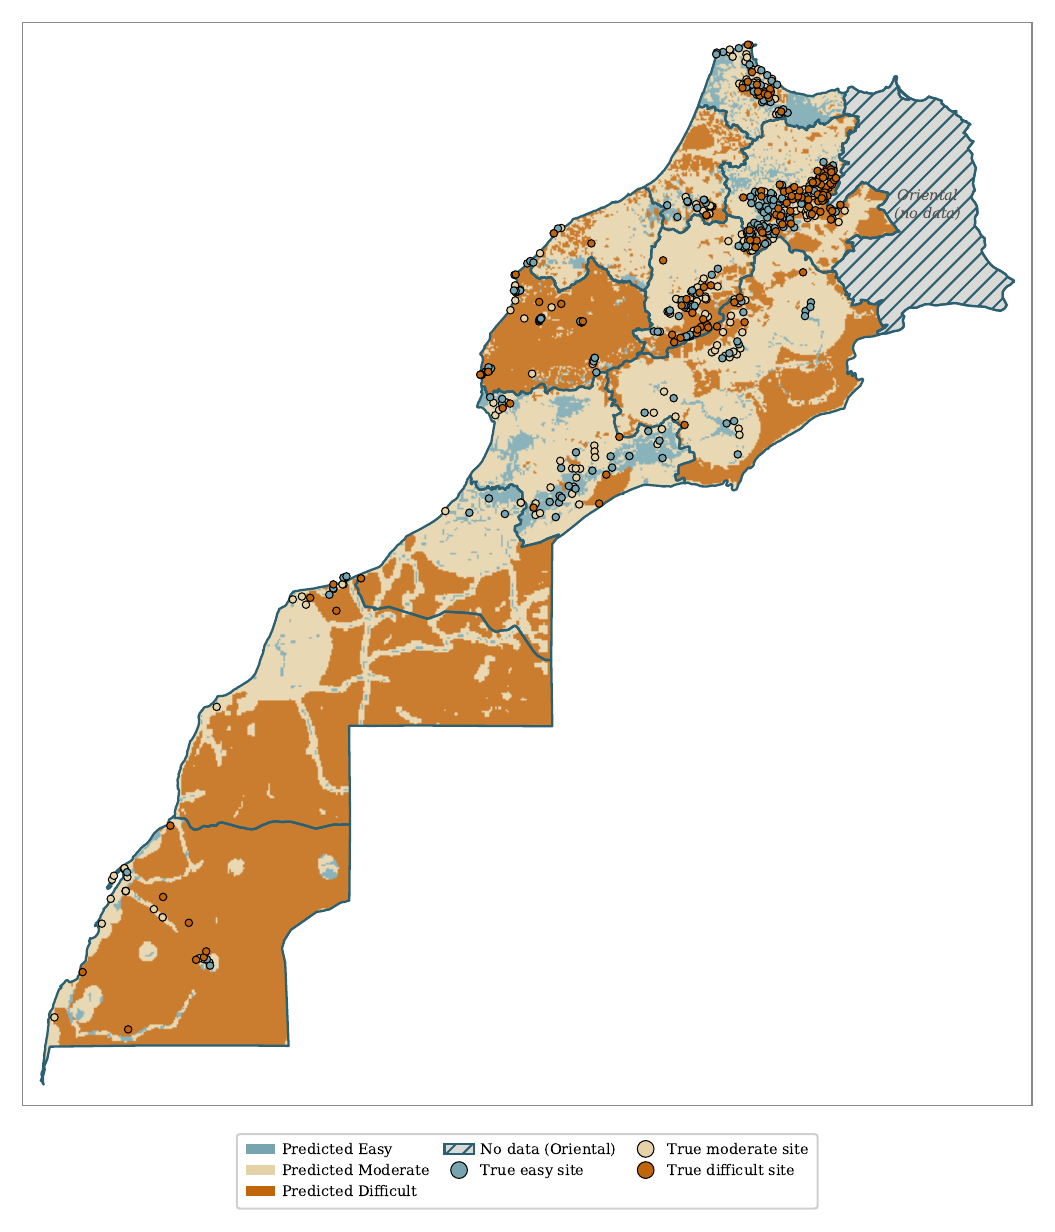
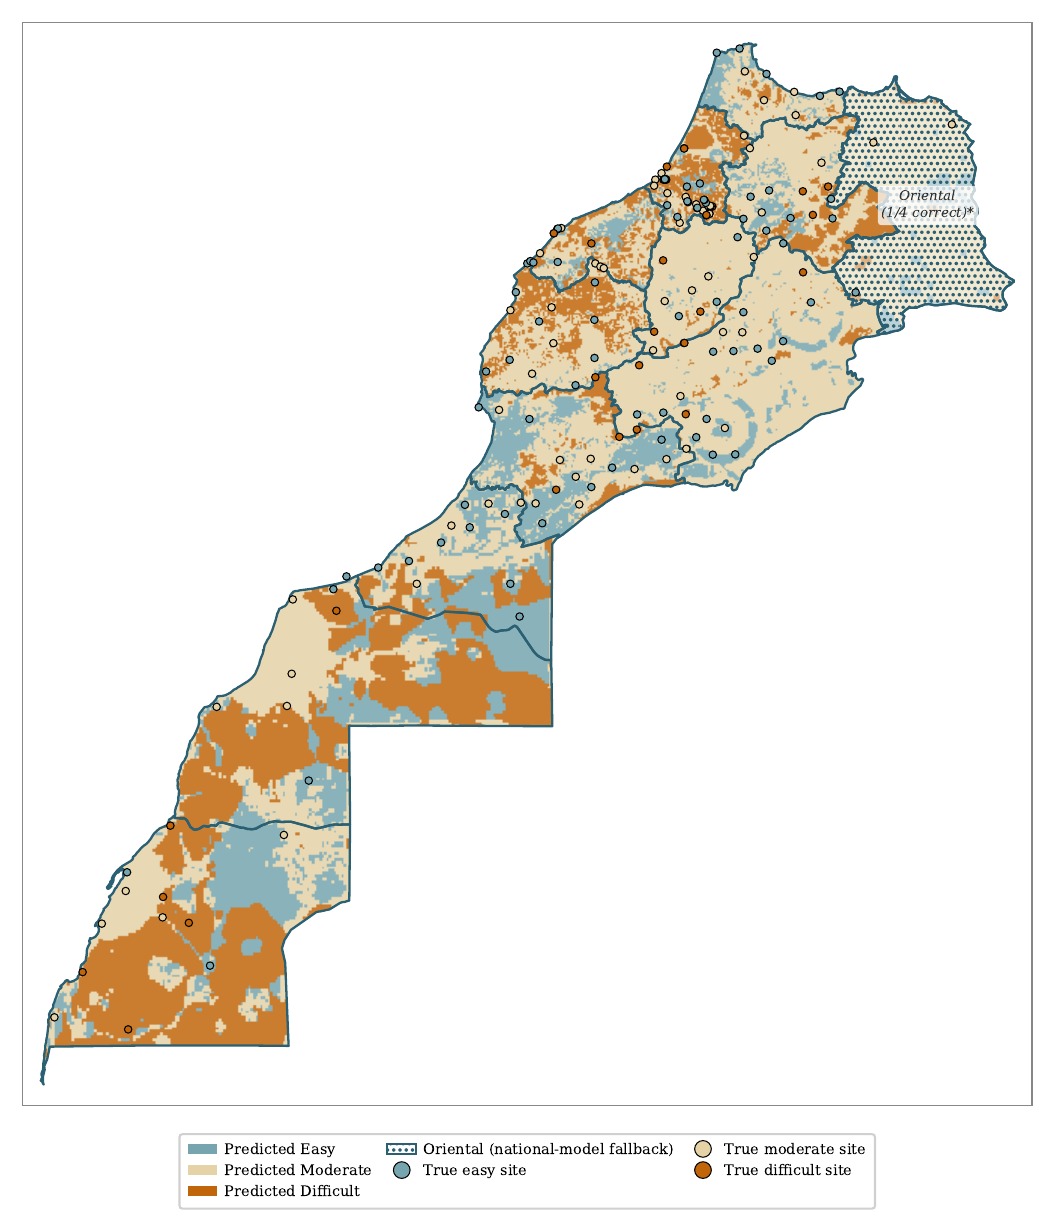
docs: rewrite root README for N=1,662, fix stale report-script path fixups
README: replaced every N=939/733-era number and claim with the current,
verified N=1,662 figures (deployed GP+Infra Difficult / tree+Infra Easy
models, updated headline table, twelve regions not eleven, pyosmium
extraction note, script count 03-33, presentation-is-stale disclosure).
Regenerated the three preview PNGs whose source PDFs changed since the
last refresh (national map now shows the deployed models; mosaic shows
the corrected South-zone trio decision and the Oriental fallback; gap
chart reflects current numbers).

Also commits seven 03_report_generation/*.py path fixups (FW/OUT resolve
one directory level too deep, left over from the report/scripts/ ->
03_report_generation/ rename) that were verified working but never
committed.

Changed region(s): [[0.0303, 0.0308, 0.9706, 0.8636], [0.1517, 0.9253, 0.819, 0.987]]

diff --git a/03_report_generation/make_morocco_regions_reference_map.py b/03_report_generation/make_morocco_regions_reference_map.py
@@ -16,8 +16,8 @@ matplotlib.use("pdf")
 import matplotlib.pyplot as plt
 
 HERE = os.path.dirname(os.path.abspath(__file__))
-FW = os.path.abspath(os.path.join(HERE, "..", ".."))
-OUT = os.path.join(HERE, "..", "figures")
+FW = os.path.abspath(os.path.join(HERE, ".."))
+OUT = os.path.join(HERE, "..", "report", "figures")
 
 # Native PDF backend, not PGF/LaTeX text -- the regions polygons have enough
 # vertices that PGF's path-as-LaTeX-commands compilation stalls for minutes.

diff --git a/03_report_generation/make_maps_render.py b/03_report_generation/make_maps_render.py
@@ -18,8 +18,8 @@ from matplotlib.patches import Patch, PathPatch
 from matplotlib.path import Path as MplPath
 
 HERE = os.path.dirname(os.path.abspath(__file__))
-FW = os.path.abspath(os.path.join(HERE, "..", ".."))
-OUT = os.path.join(HERE, "..", "figures")
+FW = os.path.abspath(os.path.join(HERE, ".."))
+OUT = os.path.join(HERE, "..", "report", "figures")
 
 plt.rcParams.update({
     "pgf.texsystem": "pdflatex",

diff --git a/03_report_generation/make_paper2_gap_charts.py b/03_report_generation/make_paper2_gap_charts.py
@@ -19,8 +19,8 @@ import matplotlib.pyplot as plt
 import numpy as np
 
 HERE = os.path.dirname(os.path.abspath(__file__))
-FW = os.path.abspath(os.path.join(HERE, "..", ".."))
-OUT = os.path.join(HERE, "..", "figures")
+FW = os.path.abspath(os.path.join(HERE, ".."))
+OUT = os.path.join(HERE, "..", "report", "figures")
 
 EASY_COL, DIFFICULT_COL, MAJ_COL, ACCENT = "#76A5AF", "#C1650A", "#555555", "#2B5F72"
 

diff --git a/03_report_generation/make_favorability_roc.py b/03_report_generation/make_favorability_roc.py
@@ -21,8 +21,8 @@ matplotlib.use("pgf")
 import matplotlib.pyplot as plt
 
 HERE = os.path.dirname(os.path.abspath(__file__))
-FW = os.path.abspath(os.path.join(HERE, "..", ".."))
-OUT = os.path.join(HERE, "..", "figures")
+FW = os.path.abspath(os.path.join(HERE, ".."))
+OUT = os.path.join(HERE, "..", "report", "figures")
 os.makedirs(OUT, exist_ok=True)
 
 plt.rcParams.update({

diff --git a/03_report_generation/make_figures.py b/03_report_generation/make_figures.py
@@ -16,7 +16,7 @@ import matplotlib.pyplot as plt
 
 HERE = os.path.dirname(os.path.abspath(__file__))
 RESULTS = os.path.join(HERE, "..", "..", "results", "json", "other")
-OUT = os.path.join(HERE, "..", "figures")
+OUT = os.path.join(HERE, "..", "report", "figures")
 os.makedirs(OUT, exist_ok=True)
 
 plt.rcParams.update({

diff --git a/03_report_generation/make_validation_schematic.py b/03_report_generation/make_validation_schematic.py
@@ -13,7 +13,7 @@ from matplotlib.patches import Circle, FancyArrowPatch
 from matplotlib.lines import Line2D
 
 HERE = os.path.dirname(os.path.abspath(__file__))
-OUT = os.path.join(HERE, "..", "figures")
+OUT = os.path.join(HERE, "..", "report", "figures")
 
 plt.rcParams.update({
     "pgf.texsystem": "pdflatex",

diff --git a/03_report_generation/make_favorability_v3.py b/03_report_generation/make_favorability_v3.py
@@ -40,7 +40,7 @@ from pyproj import Transformer
 import joblib
 
 HERE = os.path.dirname(os.path.abspath(__file__))
-FW = os.path.abspath(os.path.join(HERE, "..", ".."))
+FW = os.path.abspath(os.path.join(HERE, ".."))
 BASE = FW
 PROJ_CRS = "EPSG:26191"
 

diff --git a/README.md b/README.md
@@ -6,10 +6,10 @@
 
 Machine-learning assessment of physical accessibility for Morocco's geoheritage sites
 (geosites), built at the Geology and Sustainable Mining Institute (GSMI), UM6P. The
-catalog spans **1,667 geosites** across all eleven administrative regions with labeled
-sites, of which **939** carry an independently-sourced, citation-traceable accessibility
-label (*Easy* / *Moderate* / *Difficult*) -- 733 from the original inventory plus 206
-added and fully audited in a second labeling pass.
+catalog spans **1,667 geosites** across all twelve administrative regions, of which
+**1,662** carry an independently-sourced, citation-traceable accessibility label
+(*Easy* / *Moderate* / *Difficult*) — 734 from the original inventory, 206 added in a
+second labeling pass, and 722 more added in a third pass (2026-08-28).
 
 Two companion papers cover the work: a national review
 ([`report/geosite_ai_section_2026.pdf`](report/geosite_ai_section_2026.pdf)) and a
@@ -21,30 +21,28 @@ regional comparison
 | Model | *N* | Validation | Metric | Value |
 |---|---:|---|---|---:|
 | Geosite-location favorability | 1,667 | Spatial block CV | AUC | **0.956** |
-| Guelmim-Oued Noun + Laâyoune (Easy vs. not) | 22 | 500m LOGO-cluster CV | Accuracy | **90.9%** (+31.8pp vs. local baseline) |
-| Souss-Massa (Difficult vs. not) | 67 | 500m LOGO-cluster CV | Accuracy | 89.6% |
-| Béni Mellal-Khénifra (Difficult vs. not) | 174 | 500m LOGO-cluster CV | Accuracy | 88.5% |
-| Eddakhla-Oued Eddahab (Easy vs. not) | 33 | 500m LOGO-cluster CV | Accuracy | 87.9% |
-| National (Difficult vs. not) | 939 | 500m LOGO-cluster CV | Accuracy | 74.9% |
-| National (Easy vs. not) | 939 | 500m LOGO-cluster CV | Accuracy | 71.7% |
-| National (3-class Easy/Moderate/Difficult) | 939 | 500m LOGO-cluster CV | Accuracy | 56.2% |
+| National Difficult vs. not (deployed: Gaussian Process + Infra features) | 1,662 | 10-fold group CV | Accuracy | **80.8%** |
+| National Easy vs. not (deployed: tree ensemble + Infra features) | 1,662 | 500m LOGO-cluster CV | Accuracy | **73.5%** |
+| Guelmim-Oued Noun + Laâyoune (Easy vs. not, merged) | 56 | 500m LOGO-cluster CV | Accuracy | 83.9% (+30.3pp vs. local baseline) |
+| Tanger-Tétouan-Al Hoceima (Easy vs. not) | 312 | 500m LOGO-cluster CV | Accuracy | 79.2% (+27.9pp) |
+| Fés-Meknés (Difficult vs. not) | 537 | 500m LOGO-cluster CV | Accuracy | 73.6% (+9.4pp) |
 
 Every model uses the same core terrain/infrastructure feature stack (slope, ruggedness,
 elevation, distance to highway, distance to settlement, land-cover friction --
-regionally, extended with geological-domain or tourism-infrastructure features when
-that beats the baseline) and a 500m haversine-clustered leave-one-group-out CV
-protocol throughout, specifically to avoid the near-duplicate-site leakage that
-inflates naive random-split accuracy in spatial data. National numbers are checked
-against a paired McNemar test; regional numbers are reported against each region's
-own local majority-class baseline (see the regional paper for the full 20-row
+extended nationally and regionally with geological-domain or tourism-infrastructure
+features when that beats the plain baseline) and a 500m haversine-clustered
+leave-one-group-out CV protocol throughout, specifically to avoid the near-duplicate-site
+leakage that inflates naive random-split accuracy in spatial data. National numbers are
+checked against a paired McNemar test; regional numbers are reported against each
+region's own local majority-class baseline (see the regional paper for the full 20-row
 region-by-region breakdown, including the five region/target combinations that do
-*not* clear their local baseline).
+*not* clear their local baseline, and four that tie it exactly).
 
 | <img src="report/figures/map_national_preview.png" width="380" alt="National accessibility projection"> | <img src="report/figures/map_favorability_preview.png" width="380" alt="Geosite-location favorability"> |
 |:---:|:---:|
-| National accessibility projection (pooled model) | Geosite-location favorability -- where terrain/geology resembles known geosite locations, not accessibility |
+| National accessibility projection (deployed GP+Infra / tree+Infra models) | Geosite-location favorability -- where terrain/geology resembles known geosite locations, not accessibility |
 | <img src="report/figures/map_national_mosaic_preview.png" width="380" alt="Regional-mosaic accessibility map"> | <img src="report/figures/paper2_gap_chart_single_preview.png" width="380" alt="Regional accuracy vs. local majority baseline"> |
-| Regional paper's national mosaic, assembled from per-region best models | Single-region accuracy vs. each region's own local majority baseline, gap labeled |
+| Regional paper's national mosaic, assembled from per-region best models (Oriental shown as a disclosed national-model fallback, correct on 1 of its 4 labeled sites) | Single-region accuracy vs. each region's own local majority baseline, gap labeled |
 
 Full-resolution figures: [`report/figures/`](report/figures/).
 
@@ -55,18 +53,18 @@ meant to be run in order:
 
 | Path | Contents |
 |---|---|
-| [`01_data_preparation/`](01_data_preparation/) | Catalog build: ingest the two supervisor-provided source batches, extract terrain/road/settlement features, merge into the final catalog, build the master Excel, train the favorability model, run the model-family battery. Run `01`→`10` in order; `_catalog_helpers.py` is a shared library, not a step. `historical_one_shot_migrations/` documents three one-off column additions (Copernicus DEM, WorldCover LULC, settlement distance) already baked into `data/final/` — **not rerunnable**, their source inputs no longer exist; kept for provenance only. |
-| [`02_modeling_and_analysis/`](02_modeling_and_analysis/) | Modeling, statistical testing, and calibration/conformal analysis. See its own [`README.md`](02_modeling_and_analysis/README.md) for run order — `01`/`02` are audit-trail records, `03`–`29` are the live pipeline. |
-| [`03_report_generation/`](03_report_generation/) | Figure/map rendering scripts for both papers and the presentation. |
+| [`01_data_preparation/`](01_data_preparation/) | Catalog build: ingest the three labeling batches, extract terrain/road/settlement features, merge into the final catalog, build the master Excel, train the favorability model, run the model-family battery. Run `01`→`10` in order; `_catalog_helpers.py` is a shared library, not a step. `historical_one_shot_migrations/` documents three one-off column additions (Copernicus DEM, WorldCover LULC, settlement distance) already baked into `data/final/` — **not rerunnable**, their source inputs no longer exist; kept for provenance only. |
+| [`02_modeling_and_analysis/`](02_modeling_and_analysis/) | Modeling, statistical testing, and calibration/conformal analysis. See its own [`README.md`](02_modeling_and_analysis/README.md) for run order — `01`/`02` are audit-trail records, `03`–`33` are the live pipeline (`30`–`33` added for the N=1,662 update: extended model-family comparison, the deployed models' per-class precision/recall, and the Oriental national-model fallback check). |
+| [`03_report_generation/`](03_report_generation/) | Figure/map rendering scripts for both papers and the presentation. `region_infra_grid.py` streams the national OSM extract with `pyosmium` (a 2026-09-01 rewrite; the previous `pyrosm`-based version could not reliably complete a national-scale extraction). |
 | [`report/`](report/) | The written deliverables — `geosite_ai_section_2026.tex`/`.pdf` (national review), `geosite_ai_section_2026_paper2_regional.tex`/`.pdf` (regional comparison), their figures (`figures/`), and the UM6P/GSMI logo (`um6p_figures/`). Both `.tex` files compile as-is from this folder. |
-| [`presentation/`](presentation/) | French wrap-up slide deck (Beamer), `wrapup.tex`/`.pdf`. |
-| [`data/`](data/) | `final/` — the labeled catalog and dataset used throughout (join key: `Locality_ID`). `model_outputs/` — hyperparameter search results, prediction grids, favorability output. `boundaries/` — region GeoJSON boundaries used for map rendering. |
+| [`presentation/`](presentation/) | French wrap-up slide deck (Beamer), `wrapup.tex`/`.pdf`. **Not yet updated for the N=1,662 catalog** — still reports the original 733-site batch's numbers; treat as a separate, older deliverable until refreshed. |
+| [`data/`](data/) | `final/` — the labeled catalog and dataset used throughout (join key: `Locality_ID`), including `regional_label_sources/` (the three per-batch label files). `model_outputs/` — hyperparameter search results, prediction grids, favorability output. `boundaries/` — region GeoJSON boundaries used for map rendering. |
 | [`models/final/`](models/final/) | The deployed favorability model (`geosite_location_pilot_model_v4.joblib`). |
 | [`models/experimental/`](models/experimental/) *(gitignored)* | Earlier model iterations, kept locally for provenance, not tracked in git. |
 | [`references/`](references/) | `databases/` — the source Excel/CSV geoheritage databases. `articles/` — cited papers (two large third-party copyrighted PDFs are gitignored, not redistributed). |
 | [`results/`](results/) | Raw experiment outputs (JSON/CSV) that `02_modeling_and_analysis/` and `03_report_generation/` scripts read and write. |
 | [`exploration/`](exploration/) | Side investigations not part of the reported pipeline: HDBSCAN clustering (`hdbscan/`) and the favorability-v3 notebook (`notebooks/`). |
-| `archive/`, `livrable/` *(gitignored)* | `archive/superseded_scripts/` — ~25 dead-end/superseded scripts kept for history, see its `README.md`. `livrable/` — a standalone, self-contained handoff copy of the deliverable for the supervisors (rebuild with the same folder set as above, minus `archive/`/`exploration/`). Both kept locally, not pushed. |
+| `archive/`, `livrable/` *(gitignored)* | `archive/superseded_scripts/` — ~25 dead-end/superseded scripts kept for history, see its `README.md`. `livrable/` — a standalone, self-contained handoff copy of the deliverable for the supervisors (same folder set as above, minus `archive/`/`exploration/`), refreshed alongside this README. Both kept locally, not pushed. |
 
 ## Reproduction
 
@@ -80,29 +78,36 @@ plus a fixed number of `..` segments — keep the directory layout above intact.
 
 ## Methodology, in one paragraph
 
-939 labeled geosites (733 from the original citation-traceable inventory, plus 206
-added and fully audited in a second labeling pass), six core terrain/infrastructure
-features common to every model: slope, ruggedness, elevation (Copernicus GLO-30 DEM),
-distance to highway (OSM), distance to settlement (haversine to 55 reference cities),
-and land-cover friction (ESA WorldCover). Deployed model: a four-member soft-voted
-tree ensemble (Random Forest + XGBoost + Gradient Boosting + LightGBM), class-balance-
-weighted. Three additional, structurally unrelated model families (a linear baseline,
-*k*-NN, and a Gaussian Process classifier) were tested under the same 500m LOGO-cluster
-protocol as a baseline-choice justification — none displaces the tree ensemble by a
-statistically confirmed margin. National binary accuracy (74.9% Difficult, 71.7% Easy)
-is numerically above the majority-class baseline but not statistically distinguishable
-from it by a paired McNemar test; a three-class model reaches 56.2% and edges out the
-two-binary-classifier combination it was previously thought to underperform, though
-only borderline significantly ($p=0.075$). A newly added tourism-infrastructure
-feature does clear that bar for the Easy classifier ($p=0.029$). Split-conformal
+1,662 labeled geosites (734 from the original citation-traceable inventory, 206 added
+in a second labeling pass, and 722 more added in a third pass on 2026-08-28), six core
+terrain/infrastructure features common to every model: slope, ruggedness, elevation
+(Copernicus GLO-30 DEM), distance to highway (OSM), distance to settlement (haversine
+to reference settlement points), and land-cover friction (ESA WorldCover). The
+baseline deployed model is a four-member soft-voted tree ensemble (Random Forest +
+XGBoost + Gradient Boosting + LightGBM), class-balance-weighted; testing it against
+three additional, structurally unrelated model families (logistic regression, *k*-NN,
+and a Gaussian Process classifier) under the same 500m LOGO-cluster protocol found
+that a Gaussian Process classifier, trained on the baseline features plus
+tourism-infrastructure indicators, significantly beats the tree ensemble specifically
+for the Difficult target ($p=0.0073$) — it is the model actually deployed and mapped
+for that target nationally, while the tree ensemble (also with the infrastructure
+features added) remains deployed for Easy. On the plain six-feature baseline, national
+binary accuracy is 76.7% Difficult / 71.3% Easy; adding tourism-infrastructure
+features raises both to 78.6% / 73.5%, each a statistically confirmed gain over the
+baseline. A three-class model reaches 53.4% directly, or 58.7% with the
+infrastructure features added — statistically indistinguishable from the
+two-binary-classifier combination it was previously thought to edge out. Split-conformal
 prediction reframes the deliverable from a single accuracy number to a calibrated
-confidence statement: a confident call for roughly six in ten sites, an explicit
-field-verification flag for the rest. A companion geosite-location favorability model
-(AUC 0.956, full 1,667-site catalog) answers a related, distinct question — where
-currently uncatalogued geosites are likely to be found. A full per-region breakdown,
-including which feature set and region-merging strategy works best where, is the
-dedicated subject of the regional companion paper. Full detail and honest discussion
-of limitations:
+confidence statement: a confident call for roughly seven in ten Difficult predictions,
+about one in two for Easy, an explicit field-verification flag for the rest. A
+companion geosite-location favorability model (AUC 0.956, full 1,667-site catalog)
+answers a related, distinct question — where currently uncatalogued geosites are
+likely to be found. A full per-region breakdown, including which feature set and
+region-merging strategy works best where, is the dedicated subject of the regional
+companion paper, along with a robustness analysis tracing the national model's
+recurring Difficult-class weakness to a specific, three-times-confirmed mechanism
+(one region's terrain signature dominating the labeled training pool). Full detail
+and honest discussion of limitations:
 [`report/geosite_ai_section_2026.pdf`](report/geosite_ai_section_2026.pdf) and
 [`report/geosite_ai_section_2026_paper2_regional.pdf`](report/geosite_ai_section_2026_paper2_regional.pdf).
 
